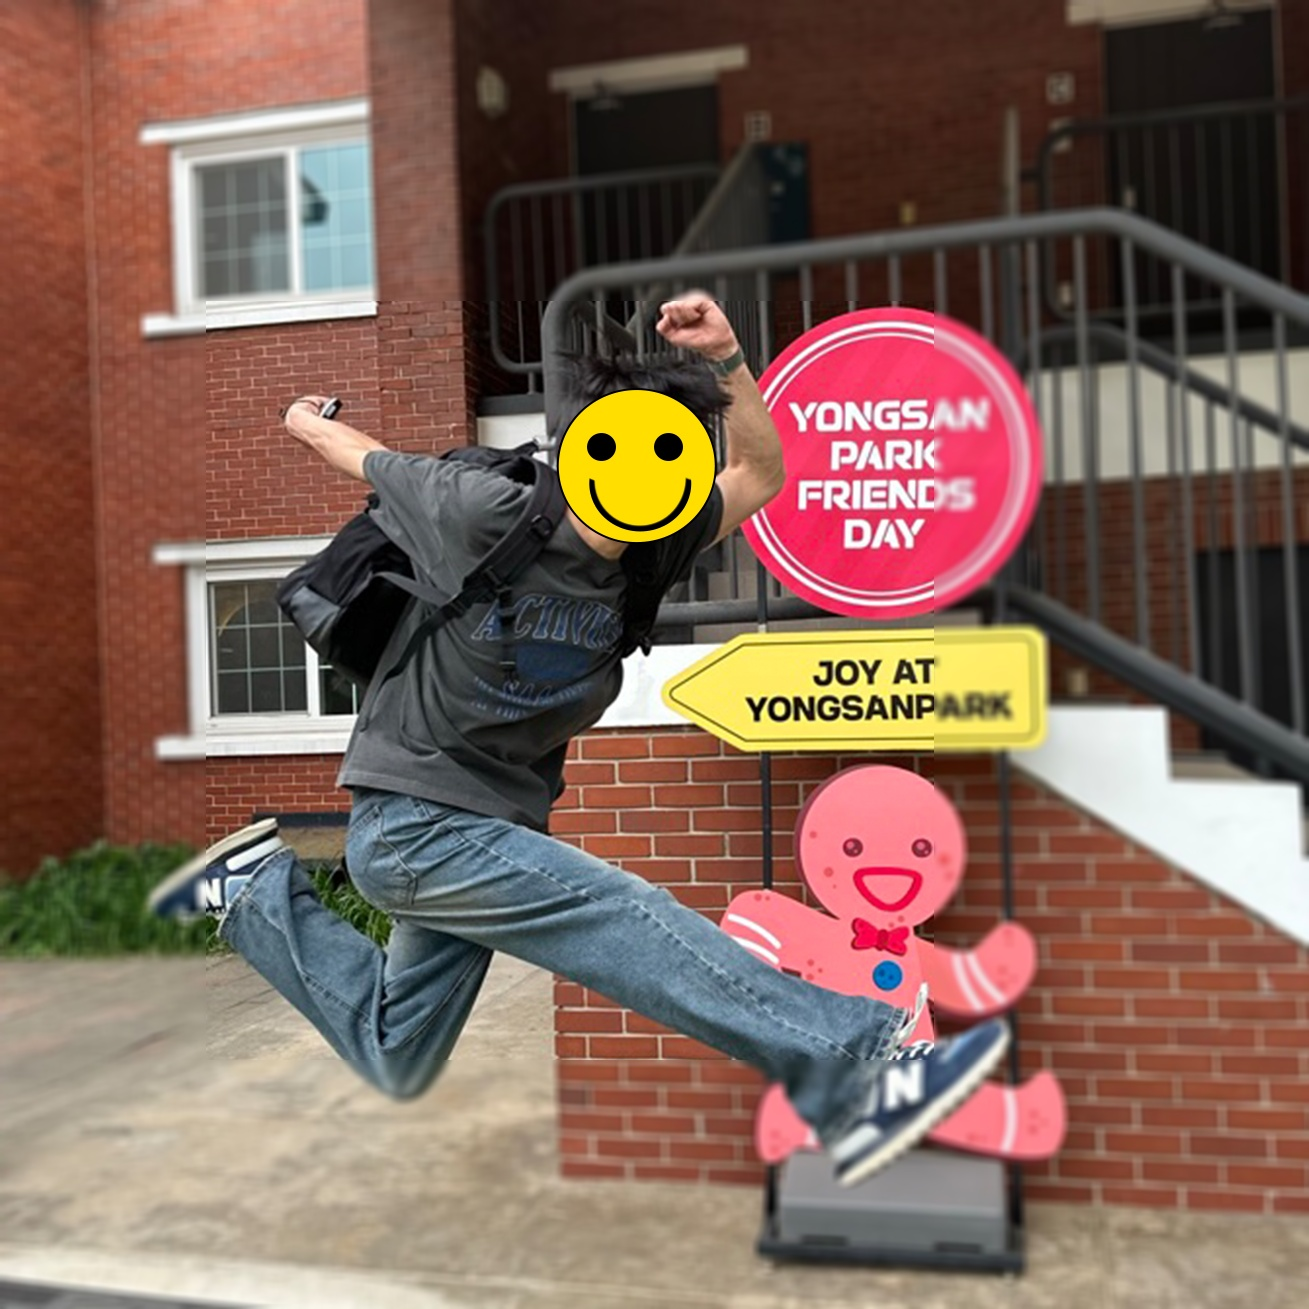
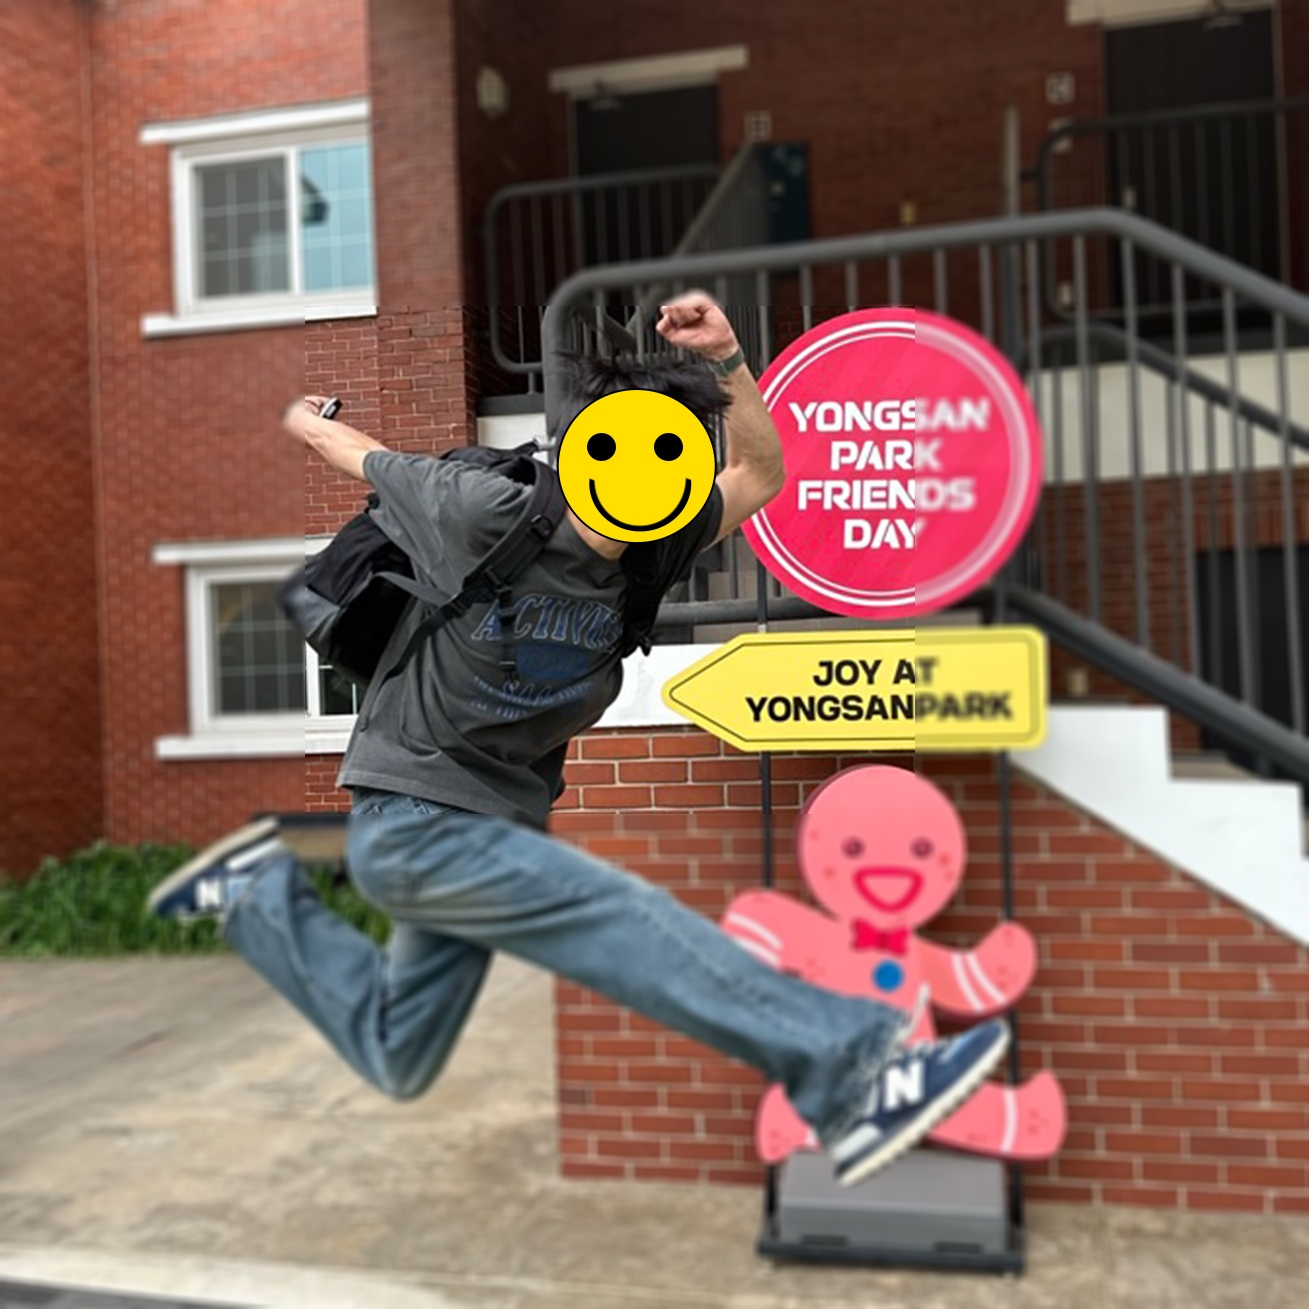
Chapter3

diff --git a/pycode/chapter3.py b/pycode/chapter3.py
@@ -19,15 +19,6 @@ def onMouse(event, x, y, flags, param):
         if isDragging:
             isDragging = False
 
-            # #캐니 엣지 검출 함수를 통한 영역 구분
-            # w = x - x0
-            # h = y - y0
-            # print("x:%d, y:%d, w:%d, h:%d" % (x0, y0, w, h))
-            # if w > 0 and h > 0:
-            #     edges = cv2.Canny(img[y0:y0 + h, x0 :x0 + w],100,360)
-            #     cv2.imwrite('./img/canny_edge.jpg', edges)
-            #     cv2.imshow('canny_edge', edges)
-
             # roi 선택
             w = x - x0
             h = y - y0
@@ -52,16 +43,6 @@ def onMouse(event, x, y, flags, param):
                 # cv2.imwrite('./img/fixed.jpg', img_af)
                 # cv2.imshow('img_cp',img_af)
                 # print("fixed")
-
-            # stereo vision 알고리즘을 통한 심도 탐색
-                img_gray = cv2.cvtColor(img, cv2.COLOR_BGR2GRAY)
-                img_depth = img_gray[y0:y0 + h, x0:x0 + w]
-                # img_depth2 = cv2.blur(img_depth,(5,5))
-                img_depth2 = cv2.GaussianBlur(img_depth, (15,15), 0) #가우시안 필터링
-                stereo = cv2.StereoBM_create(numDisparities=16, blockSize=15)
-                disparity = stereo.compute(img_depth, img_depth2)
-                plt.imshow(disparity, 'gray')
-                plt.show()
 
             else:
                 cv2.imshow('img', img)

diff --git a/pycode/chapter2.py b/pycode/chapter2.py
@@ -34,25 +34,6 @@ def onMouse(event, x, y, flags, param):
             print("x:%d, y:%d, w:%d, h:%d" % (x0, y0, w, h))
             if w > 0 and h > 0:
 
-                # height, width = img.shape[:2]
-                # # img = cv2.resize(img, (int(width), int(height)), interpolation=cv2.INTER_AREA)
-                # 전경
-                # img_fg = img[y0:y0 + h, x0:x0 + w]
-                #
-                # # resize를 통한 블러링
-                # # img_cp = cv2.resize(img, (int(width*userOFCS), int(height*userOFCS)), interpolation=cv2.INTER_AREA)
-                # # img_cp = cv2.resize(img_cp, (int(width), int(height)), interpolation=cv2.INTER_AREA)
-                # # img_cp[y0:y0 + h, x0:x0 + w] = img_fg
-                #
-                # #blur() 함수로 블러링
-                # img_af = cv2.blur(img,(userOFCSb,userOFCSb))
-                # img_af[y0:y0 + h, x0:x0 + w] = img_fg
-                #
-                # 수정된 이미지 show
-                # cv2.imwrite('./img/fixed.jpg', img_af)
-                # cv2.imshow('img_cp',img_af)
-                # print("fixed")
-
             # stereo vision 알고리즘을 통한 심도 탐색
                 img_gray = cv2.cvtColor(img, cv2.COLOR_BGR2GRAY)
                 img_depth = img_gray[y0:y0 + h, x0:x0 + w]

diff --git a/README.md b/README.md
@@ -38,3 +38,10 @@ OpenCV를 이용한 간단 제작
 3. 구분된 영역 정리(sanding)
 
 CHAPTER 1. OpenCV를 이용한 간단 제작
+--------------------------------------------------------
+CHAPTER 2
+선택영역의 색상의 Edge 변화로 피사체의 심도를 확인하고, 피사체만 마스킹하기
+-> 단일 이미지 심도 파악 알고리즘 부재로 인한 미해결
+--------------------------------------------------------
+CHAPTER 3
+자유도를 가진 선택영역 설정 후, 그 선택영역 제외부분 블러처리
